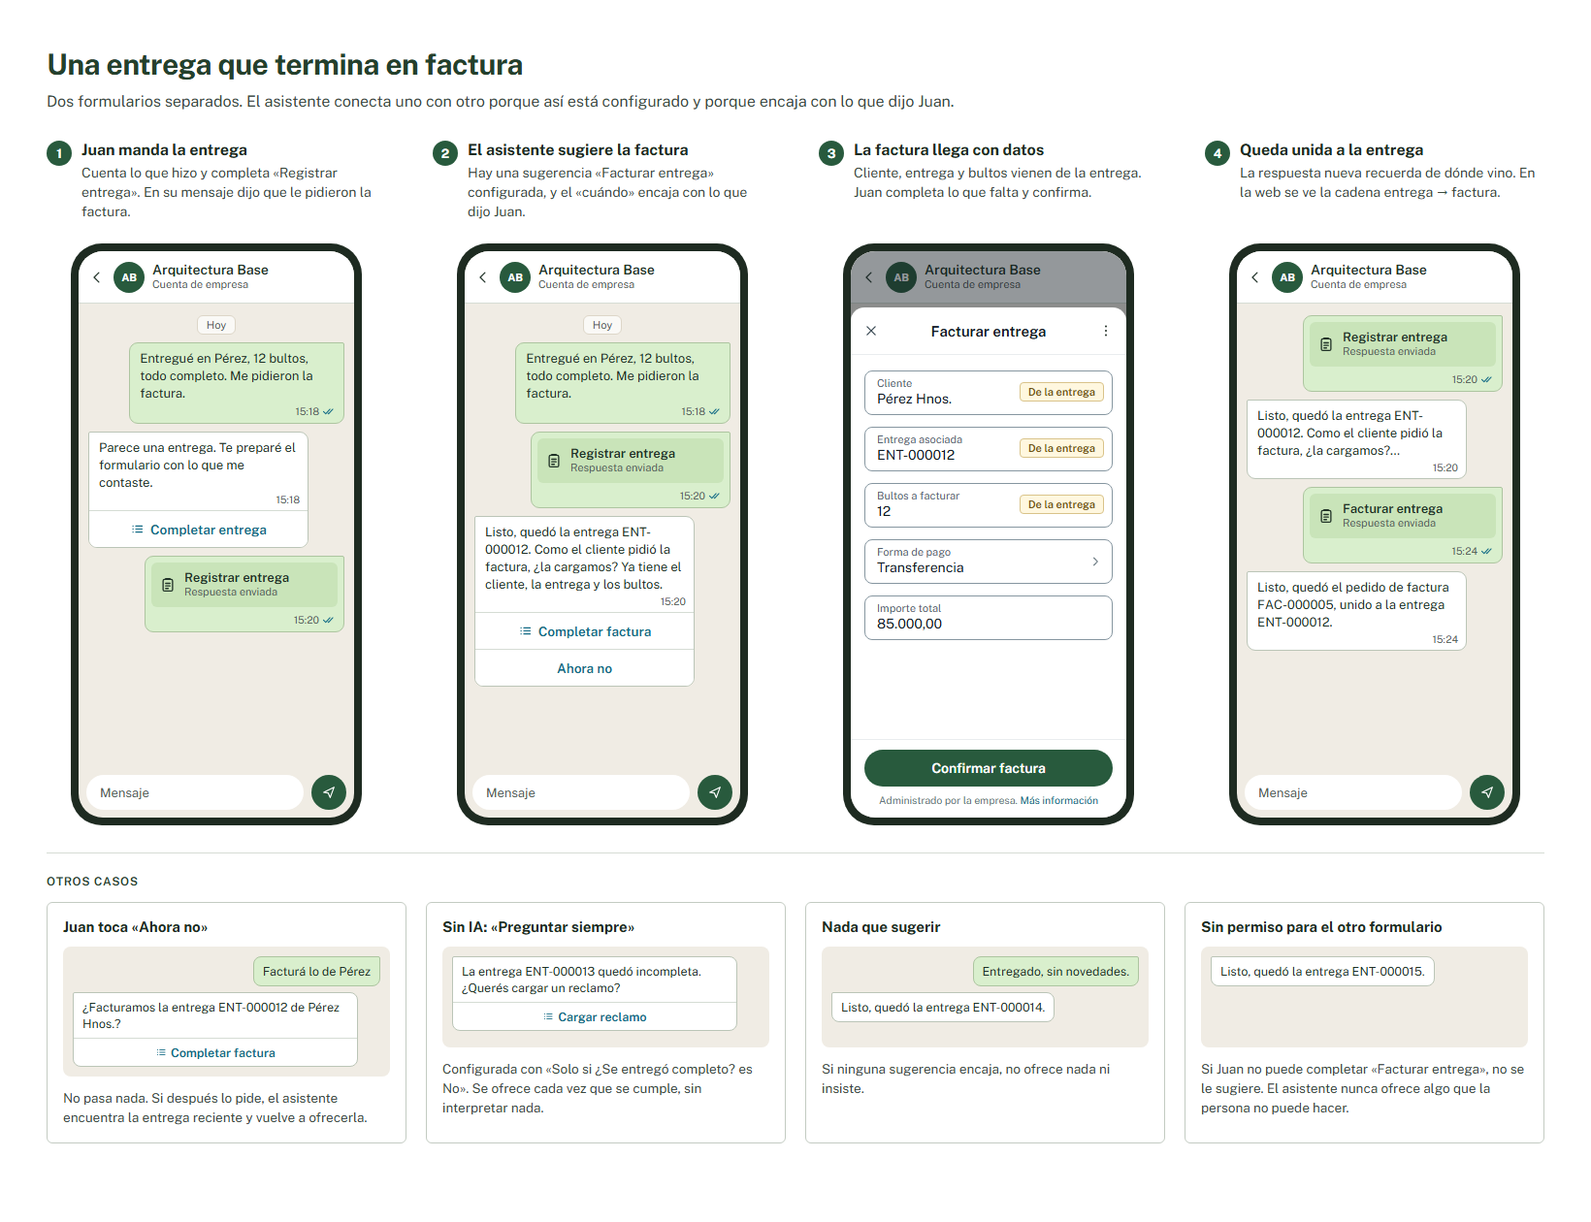
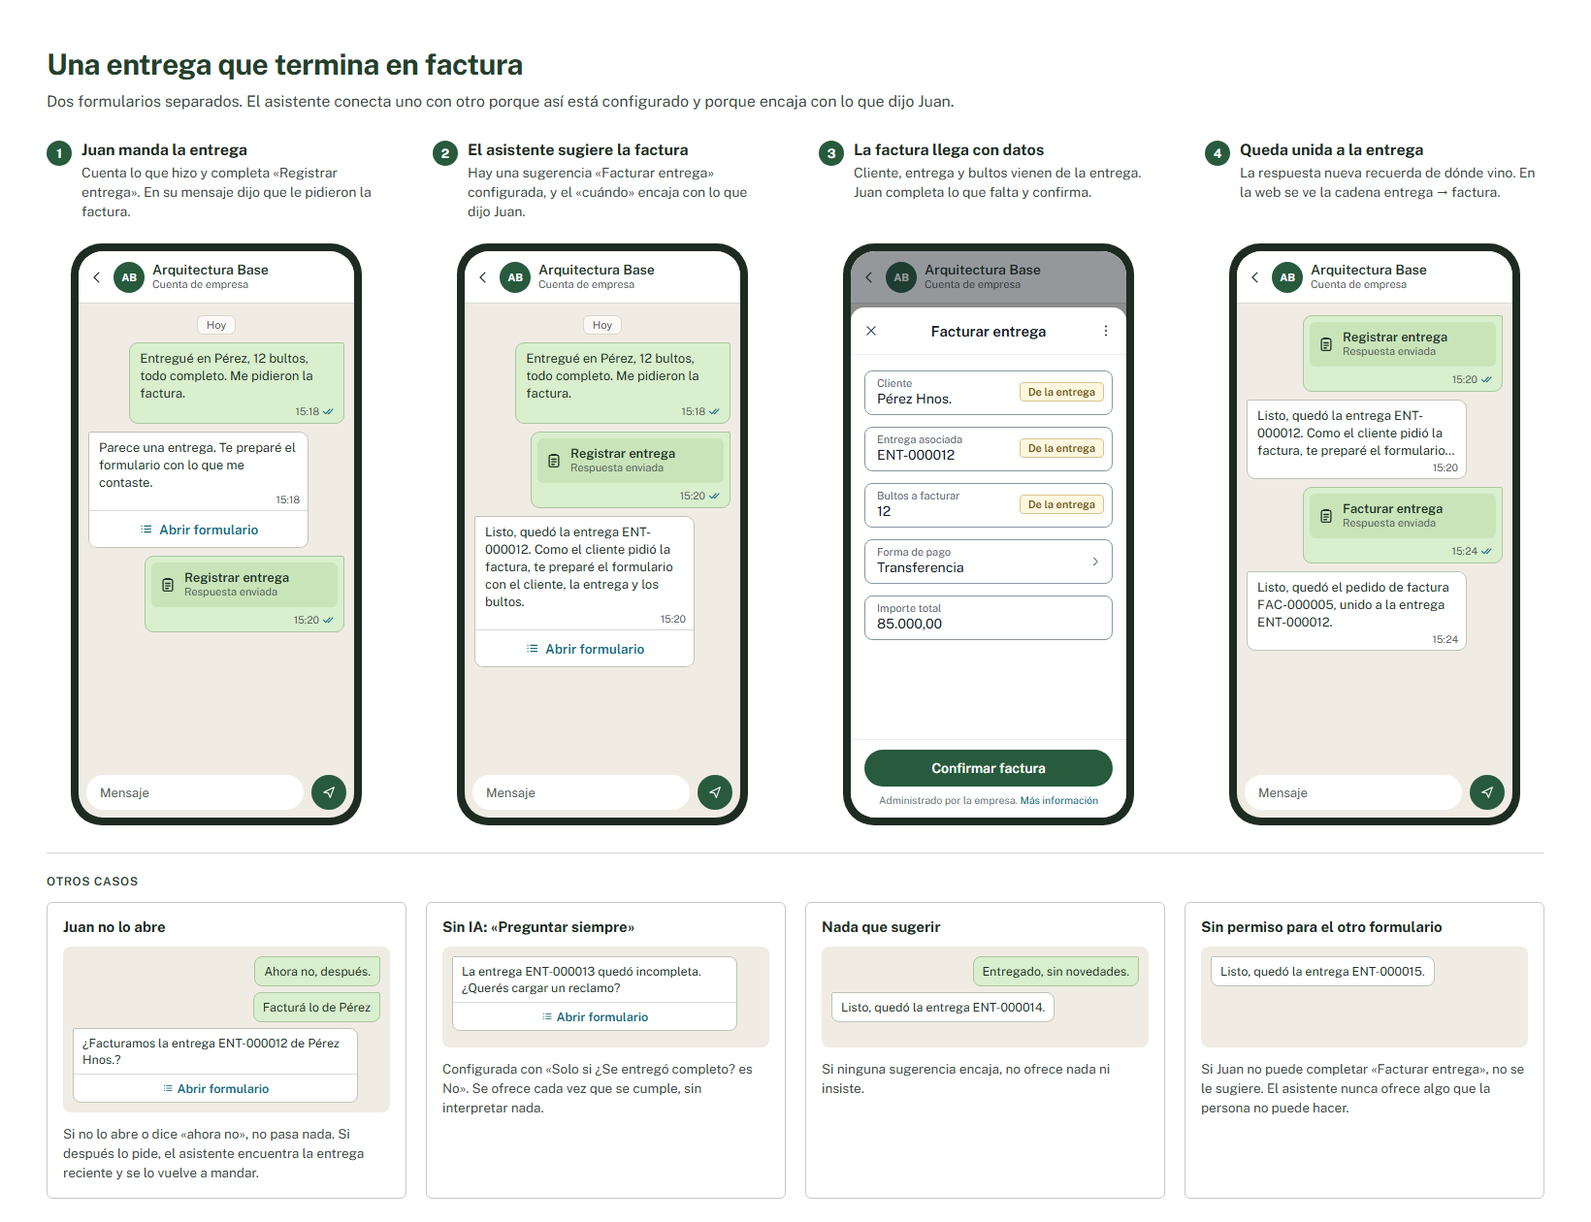
docs: tableros de las cinco etapas de formularios por WhatsApp
Congela en capturas y en formularios-whatsapp.md las variantes de los
cuatro incrementos de la Etapa 1 y los tableros de las etapas 2 a 5
(catálogos, planilla, reglas con aprobación y PDF, y asistente), con
las decisiones del usuario del 2026-10-10. El botón que abre un
formulario en WhatsApp dice siempre «Abrir formulario».

diff --git a/docs/design/formularios-whatsapp.md b/docs/design/formularios-whatsapp.md
@@ -1,6 +1,8 @@
 # Formularios por WhatsApp: tableros elegidos
 
-Fecha: **2026-10-08**. Estado: **diseño elegido por el usuario, sin implementar**.
+Fecha: **2026-10-08**, con las variantes de los cuatro incrementos de la Etapa 1 y el botón «Abrir formulario»
+agregados el **2026-10-10**.
+Estado: **diseño elegido por el usuario, sin implementar**.
 
 Origen: la página «Formularios por WhatsApp» del Artifact
 [Sistema visual — ArquitecturaBase](https://claude.ai/artifact/HPbmDPLnr8JZ9TxevtTqJJ). Como el Artifact es privado
@@ -45,6 +47,101 @@ La Etapa 1:
 | [La respuesta llega al chat](evidence/formularios-whatsapp/e1-3-chat-respuesta.png) | Formulario enviado y respuesta recibida en la línea del tiempo, y vista previa en la lista de chats. |
 | [En el celular de Juan](evidence/formularios-whatsapp/e1-4-celular.png) | Lo que ve el empleado en la Etapa 1, sin asistente. |
 
+Incremento 1 de la Etapa 1, crear y editar (2026-10-10). Son variantes de los tableros elegidos, con los textos de
+[la preparación del front](../plans/formularios-etapa-1-preparacion.md):
+
+| Captura | Qué define |
+| --- | --- |
+| [A · El listado de la Etapa 1](evidence/formularios-whatsapp/e1-a-listado.png) | El 02 recortado: panel con solo «Diseñar formularios», columnas Formulario, Preguntas, En WhatsApp, Último cambio y Acciones (solo Editar), filtros con conteos del servidor y los estados de la lista. |
+| [B · Nuevo formulario](evidence/formularios-whatsapp/e1-b-alta.png) | El editor e1-1 vacío: nada existe hasta «Guardar borrador», prefijo sugerido, pregunta nueva abierta en el lugar, Subir y Bajar, qué pasa al guardar (Guardando…, Guardado, No se guardó, Sin confirmar) y qué pide confirmación. |
+| [C · El prefijo de numeración](evidence/formularios-whatsapp/e1-c-prefijo.png) | Sugerido, editado, ocupado, fijo al publicar, fijo aunque la publicación falló y fijado mientras se editaba. |
+| [D · Otra persona guardó antes](evidence/formularios-whatsapp/e1-d-conflicto.png) | Aviso con «Revisar», comparación «Guardado actualmente» y «Mis cambios» por pregunta y opción, «Usar borrador actual» o «Conservar mis cambios», sin combinar nada solo. |
+| [E · Textos en dos idiomas](evidence/formularios-whatsapp/e1-e-idiomas.png) | Español e inglés en el mismo editor: un idioma a la vez con el original debajo, lo que falta marcado en la fila, el campo y la vista previa. Se guarda incompleto; para publicar hacen falta los dos. |
+
+Incremento 2 de la Etapa 1, publicar en WhatsApp (2026-10-10). Variantes del tablero 04 y del editor e1-1, sobre el
+[contrato propuesto](../../../ArquitecturaBase/docs/plans/formularios-incremento-2-publicacion-contrato.md). Quedan a
+definir las acciones de «Necesita revisión». Decidido el 2026-10-10: se publica solo lo guardado (D4) y en español e
+inglés, con las traducciones cargadas en el editor (D5, variante E).
+
+| Captura | Qué define |
+| --- | --- |
+| [P1 · Publicar la versión 1](evidence/formularios-whatsapp/e2-p1-publicar.png) | Confirmación de la primera publicación: «Qué incluye», «Qué queda fijo» (las preguntas de la versión y el prefijo) y «Qué va a pasar». Aceptar no es publicar. |
+| [P1 · Antes de publicar](evidence/formularios-whatsapp/e2-p1-antes.png) | Variantes del diálogo: comprobando, cambios sin guardar, pregunta que WhatsApp no podría mostrar, versión siguiente con sus diferencias, comprobación vencida, cambios de otra persona, publicación en curso y cuenta de WhatsApp no lista. |
+| [P2 · Publicando](evidence/formularios-whatsapp/e2-p2-publicando.png) | El avance en palabras (Aceptada, Enviada a WhatsApp, WhatsApp la revisa, Lista para mandar), la versión anterior en uso y el borrador editable mientras tanto. |
+| [P2 · Cómo termina](evidence/formularios-whatsapp/e2-p2-resultado.png) | Publicada, rechazada por una pregunta, falla general con «Reintentar», sin confirmar, necesita revisión y cómo se ve en el listado. |
+| [P3 · Vista previa oficial](evidence/formularios-whatsapp/e2-p3-vista.png) | Vista orientativa frente a la oficial de WhatsApp: selector Borrador / Versión N, carga, vencida y no se puede mostrar, con «Abrir vista oficial». |
+
+Incremento 3 de la Etapa 1, mandar un formulario desde el chat (2026-10-10). Variantes de e1-2 y e1-3, con los textos y
+estados que ya usa el chat (`src/locales/*/whatsapp.json`):
+
+| Captura | Qué define |
+| --- | --- |
+| [C1 · ¿Puede recibir un formulario?](evidence/formularios-whatsapp/e3-c1-cuenta.png) | Encabezado y botón según la cuenta vinculada: con correo, sin correo, sin vínculo, inactiva, sin formularios para esa persona y sin permiso de responder. El motivo va debajo del botón deshabilitado. |
+| [C2 · Elegir el formulario](evidence/formularios-whatsapp/e3-c2-elegir.png) | Diálogo con búsqueda y paginado, el idioma en que le llega, el mensaje y los estados de la lista. |
+| [C3 · El mensaje y los dos botones](evidence/formularios-whatsapp/e3-c3-mensaje.png) | Mensaje obligatorio de hasta 1024 caracteres; «Abrir formulario» («Open form» en inglés) y el botón final del formulario. |
+| [C4 · Si algo cambia con el diálogo abierto](evidence/formularios-whatsapp/e3-c4-cambios.png) | Ventana cerrada, permiso revocado, fuera de atención manual, otro envío, vínculo cambiado y formulario no disponible, sin perder lo escrito. |
+| [C5 · Después de enviar](evidence/formularios-whatsapp/e3-c5-estado.png) | Guardando, en cola, leído, no se pudo enviar, envío sin confirmar con «Ya revisé el WhatsApp» y pedido sin confirmar con «Consultar envío». |
+
+Incremento 4 de la Etapa 1, la respuesta llega al chat (2026-10-10). Variantes de e1-3:
+
+| Captura | Qué define |
+| --- | --- |
+| [R1 · La respuesta llega](evidence/formularios-whatsapp/e4-r1-llega.png) | Guardando (sin valores), guardada con su número, no se pudo guardar, no reconocida, llegó dos veces y la vista previa en la lista de chats. |
+| [R2 · Quién ve lo que respondió](evidence/formularios-whatsapp/e4-r2-permisos.png) | Con y sin `formrecords.read`, el permiso revocado con el chat abierto y lo que nunca lleva valores (lista, avisos, nombres accesibles). |
+| [R3 · Cómo se muestran los valores](evidence/formularios-whatsapp/e4-r3-valores.png) | Los seis tipos sin perder nada («No», «0», «Sin respuesta», decimales exactos, fecha sin hora), opciones de su versión, respuesta larga plegada, mensaje de WhatsApp borrado y respuesta en inglés. |
+
+Etapa 2, catálogos (2026-10-10), sobre los
+[acuerdos §5](../../../ArquitecturaBase/docs/plans/formularios-modelo-demo/acuerdos-2026-10-08.md) y el plan §5.2. Decidido el
+mismo día: el inglés de las opciones de un catálogo es opcional (si falta, se usa el español); cambiar el catálogo de una
+pregunta publicada la convierte en pregunta nueva; si la opción elegida se dio de baja antes de responder, no se guarda,
+se avisa al operador y se ofrece mandarlo de nuevo. La consulta avanzada necesita un ADR antes de programarse.
+
+| Captura | Qué define |
+| --- | --- |
+| [K1 · Catálogos](evidence/formularios-whatsapp/cat-k1-listado.png) | Entrada nueva en Formularios; listado con origen, opciones, qué formularios lo usan y estado (activo, no se puede usar con el motivo, dado de baja). |
+| [K2 · Nuevo catálogo](evidence/formularios-whatsapp/cat-k2-nuevo.png) | Elegir de dónde salen las opciones: escritas a mano, de la base con filtros o con una consulta avanzada. El origen no cambia después. |
+| [K3 · Escritas a mano](evidence/formularios-whatsapp/cat-k3-manual.png) | Texto, detalle y código por opción, orden, dar de baja sin borrar, formularios que lo usan y cómo lo ve el empleado. |
+| [K4 · De la base, con filtros](evidence/formularios-whatsapp/cat-k4-filtros.png) | Vista Usuarios, columnas de texto y detalle, condiciones, «sin incluir a quien lo recibe», orden y vista previa como si lo recibiera alguien. |
+| [K5 · Con una consulta](evidence/formularios-whatsapp/cat-k5-consulta.png) | Consulta de lectura sobre vistas de catálogo, prueba con una persona de ejemplo, motivos de rechazo y cómo se arregla un catálogo que dejó de funcionar. |
+| [K6 · Elegir de un catálogo](evidence/formularios-whatsapp/cat-k6-pregunta.png) | El tipo de pregunta nuevo en el editor; catálogos que no se pueden usar, visibles pero no elegibles. |
+| [K7 · Al mandar y al responder](evidence/formularios-whatsapp/cat-k7-envio.png) | Opciones preparadas para cada persona al enviar, catálogo inválido, más de 200 o ninguna opción, lo que ve Juan, la referencia guardada y la opción dada de baja antes de responder. |
+
+Etapa 3, planilla de respuestas (2026-10-10). **Propuesta para revisar**: los tableros 06 y 07 recortados a esta etapa,
+sin aprobación, PDF ni asistente. Cargar desde la web queda para después (decidido el 2026-10-10).
+
+| Captura | Qué define |
+| --- | --- |
+| [T1 · La planilla](evidence/formularios-whatsapp/pla-t1-planilla.png) | «Respuestas» en el panel, columnas fijas (número, recibida, cargó) y una por pregunta de todas las versiones; «—» si no existía y «Sin respuesta» si no se contestó. |
+| [T2 · Más filtros](evidence/formularios-whatsapp/pla-t2-filtros.png) | Un filtro por pregunta según su tipo, con conteos del servidor; versión del formulario; búsqueda privada fuera de la dirección. |
+| [T3 · Una respuesta](evidence/formularios-whatsapp/pla-t3-respuesta.png) | Lo que respondió con las preguntas de su versión, de dónde vino, historial y anterior/siguiente dentro de la planilla. |
+| [T4 · Estados y casos](evidence/formularios-whatsapp/pla-t4-estados.png) | Carga, sin respuestas, sin coincidencias, error, muchos formularios, sin permiso, respuesta que no está y pregunta que cambió de tipo. |
+
+Etapa 4, reglas, aprobación, PDF y avisos (2026-10-10), sobre los acuerdos §3 y el plan. Decidido el mismo día: después
+de «Pedir aprobación» no hay más acciones en la misma regla; una respuesta que espera aprobación sigue con las reglas con
+que llegó; nadie aprueba lo que cargó. Los avisos fuera de las 24 horas necesitan plantillas de Meta.
+
+| Captura | Qué define |
+| --- | --- |
+| [G1 · Cuando llega una respuesta](evidence/formularios-whatsapp/reg-g1-reglas.png) | Reglas en palabras (cuándo, si, hacer en orden), una abierta para editar, Guardar reglas e historial de revisiones. |
+| [G2 · El diseño del PDF](evidence/formularios-whatsapp/reg-g2-pdf.png) | Comprobante simple: nombre en los dos idiomas, qué preguntas incluye, quién aprobó, texto al pie y vista previa. |
+| [G3 · Por aprobar](evidence/formularios-whatsapp/reg-g3-por-aprobar.png) | La bandeja de quien decide, en el panel con su cantidad; ordenada de la más vieja a la más nueva. |
+| [G4 · Aprobar o rechazar](evidence/formularios-whatsapp/reg-g4-decidir.png) | El detalle con la decisión; rechazar pide motivo; otra persona decidió antes; no aprobar lo propio. |
+| [G5 · Qué pasó después](evidence/formularios-whatsapp/reg-g5-historial.png) | Cada acción con su estado (esperando, en curso, hecho, no se pudo, sin confirmar, no aplica) y el PDF como copia fija. |
+| [G6 · Lo que recibe el empleado](evidence/formularios-whatsapp/reg-g6-celular.png) | Confirmación al recibir, aviso con el PDF al aprobar, motivo al rechazar, también en inglés. |
+
+Etapa 5, el asistente (2026-10-10), sobre los acuerdos §4 y §6. También son de esta etapa «Cuándo lo ofrece» (03),
+el recorrido con asistente (05) y las sugerencias entre formularios (s1–s4). Decidido el mismo día: con un mensaje que no
+es un formulario, el asistente no contesta y la conversación queda para un operador; ofrece formularios hasta 2 veces por
+día en cada conversación; cambiar el modo pide el permiso nuevo «Configurar el asistente», que tiene Admin.
+
+| Captura | Qué define |
+| --- | --- |
+| [H1 · El chat en modo Asistente](evidence/formularios-whatsapp/asi-h1-modo-asistente.png) | El asistente manda el formulario prellenado con su nombre como autor, «Por qué lo mandó», mensajes automáticos de reglas y «Tomar atención manual». |
+| [H2 · En Atención manual, sugiere](evidence/formularios-whatsapp/asi-h2-sugerencia.png) | La sugerencia arriba del compositor y el diálogo de envío con los datos prellenados que se pueden destildar. |
+| [H3 · Cambiar de modo](evidence/formularios-whatsapp/asi-h3-modos.png) | Confirmación para pasar a Asistente, tomar la atención a mitad de un envío, IA no disponible, chats existentes, marca en la lista y sin permiso. |
+| [H4 · Un catálogo que propone el asistente](evidence/formularios-whatsapp/asi-h4-catalogo.png) | Pedido por WhatsApp, propuesta para revisar en la web y aprobación por una persona. |
+| [H5 · Los límites del asistente](evidence/formularios-whatsapp/asi-h5-limites.png) | Pregunta si no está seguro, no insiste, respeta permisos y 24 horas, y deja todo registrado en la respuesta. |
+
 Propuesta posterior, en revisión (Etapa del asistente): un formulario puede sugerir otro. No reemplaza a los
 tableros elegidos; el modelo y las reglas están en los
 [acuerdos del 2026-10-08](../../../ArquitecturaBase/docs/plans/formularios-modelo-demo/acuerdos-2026-10-08.md).
@@ -53,7 +150,7 @@ tableros elegidos; el modelo y las reglas están en los
 | --- | --- |
 | [La idea](evidence/formularios-whatsapp/s1-sugerir-idea.png) | Formularios independientes conectados por sugerencias: cuándo, qué datos pasan y cómo se ofrecen. |
 | [Configurar qué sugerir después](evidence/formularios-whatsapp/s2-sugerir-editor.png) | Sección del editor con su propio «Guardar sugerencias», sin republicar. |
-| [En el celular](evidence/formularios-whatsapp/s3-sugerir-celular.png) | Entrega que termina en factura, y los casos «Ahora no», sin IA, nada que sugerir y sin permiso. |
+| [En el celular](evidence/formularios-whatsapp/s3-sugerir-celular.png) | Entrega que termina en factura, y los casos «Juan no lo abre», sin IA, nada que sugerir y sin permiso. |
 | [La cadena en la web](evidence/formularios-whatsapp/s4-sugerir-cadena.png) | La respuesta recuerda de dónde vino, qué sugerencia la ofreció y por qué. |
 
 ## Decisiones de diseño
@@ -66,7 +163,8 @@ tableros elegidos; el modelo y las reglas están en los
    «Cuando llega una respuesta». A la derecha, la vista previa del celular, que refleja el borrador mientras se edita
    y aclara que la vista oficial de WhatsApp aparece al publicar.
 3. **Preguntas.** Una fila por pregunta: arrastre, número, etiqueta, tipo en palabras, Obligatoria u Opcional, Editar
-   y Quitar. Se editan en el lugar, en la fila expandida. Los tipos se nombran en palabras (Texto corto, Texto largo,
+   y Quitar. En la Etapa 1, «Subir» y «Bajar» reemplazan al arrastre (variante B); si el arrastre llega después, es
+   un atajo y nunca la única forma de ordenar. Se editan en el lugar, en la fila expandida. Los tipos se nombran en palabras (Texto corto, Texto largo,
    Número con decimales, Fecha, Sí o no, Elegir de una lista). No se muestran claves internas, IDs, JSON ni la versión
    del esquema.
 4. **Estados en palabras.** Cada formulario muestra una sola etiqueta: Borrador, Publicando…, Publicado · versión N,
@@ -87,6 +185,13 @@ tableros elegidos; el modelo y las reglas están en los
 9. **WhatsApp.** El asistente solo propone y la persona confirma. Si el mensaje es ambiguo pregunta; sin IA se elige
    de una lista; un número sin cuenta vinculada recibe orientación; fuera de 24 horas hace falta una plantilla de
    Meta. Los mensajes al empleado usan voseo y dicen el número de la respuesta.
+10. **Dos botones distintos.** El mensaje que abre un formulario en WhatsApp tiene un solo botón y dice siempre
+    «Abrir formulario». El botón final, adentro del formulario, es el «Texto del botón final» que define cada uno
+    («Enviar», «Confirmar visita»). WhatsApp no admite otro botón en el mismo mensaje: una sugerencia que la persona
+    no quiere simplemente no se abre.
+11. **Dos idiomas (2026-10-10).** Cada texto que ve el empleado (nombre, preguntas, ayudas, opciones y botón final) se
+    escribe en español y en inglés. Se puede guardar con traducciones pendientes; para publicar hacen falta los dos.
+    Cada empleado recibe el formulario, el mensaje y «Abrir formulario» en el idioma de su cuenta.
 
 ## Etapa 1: el formulario y el chat de hoy
 
@@ -95,11 +200,11 @@ Es el primer desarrollo. Las pantallas que no cambian respecto de la historia co
 Entra:
 
 - **Panel Formularios** solo con «Diseñar formularios». La sección «Respuestas» llega con la planilla.
-- **Listado «Diseñar formularios»**, como el tablero 02.
+- **Listado «Diseñar formularios»**, como la variante A: el tablero 02 sin respuestas y con solo Editar.
 - **Editor de la Etapa 1**, como e1-1: «El formulario» con Nombre y Texto del botón final; «Preguntas» con los tipos
   Texto corto, Texto largo, Número con decimales, Fecha, Sí o no y Elegir de una lista; las opciones de una lista se
   escriben a mano en el editor; vista previa del celular. No aparecen «Cuándo lo ofrece el asistente» ni «Cuando
-  llega una respuesta».
+  llega una respuesta». El alta es la variante B, el prefijo la C y el conflicto al guardar la D.
 - **Publicar**, como el tablero 04. El primer publicado es la versión 1.
 - **Chat de WhatsApp**, como e1-2 y e1-3:
   - El encabezado de la conversación agrega «Cuenta vinculada: correo» cuando el contacto está vinculado a una cuenta.
@@ -117,8 +222,8 @@ Entra:
     «Guardada como número».
   - La lista de chats muestra «Respondió nombre del formulario».
   - No hay respuestas automáticas: el operador contesta a mano.
-- **Celular**, como e1-4: el empleado recibe el pedido, completa el formulario de WhatsApp y lo envía. Si lo cierra sin
-  enviar, no se guarda nada.
+- **Celular**, como e1-4: el empleado recibe el pedido con el botón «Abrir formulario», completa el formulario de
+  WhatsApp y lo envía con el botón final. Si lo cierra sin enviar, no se guarda nada.
 
 Queda para etapas siguientes: la planilla de respuestas y su sección en el panel, Una respuesta, aprobación y PDF,
 el asistente con IA, los catálogos y referencias (clientes), cargar desde la web, correcciones, mandar fuera de las
@@ -128,14 +233,14 @@ Las respuestas de la Etapa 1 ya se guardan con su versión y su número: cuando 
 
 ## Pendientes antes de programar cada pantalla
 
-- **Numeración (decidida el 2026-10-08).** Prefijo del formulario, como en los tableros (VIS-000001): se propone a
-  partir del nombre, el administrador puede cambiarlo hasta la primera publicación, es único y no se recicla. Suma el
-  campo «Prefijo de numeración» en «El formulario»: se dibuja en el lienzo antes de programarlo.
-- **Estados no dibujados.** Carga, vacío, sin coincidencias, error con reintento, sin permiso, 320/390 px e inglés del
-  listado, el editor y el diálogo de envío. Se dibujan en el mismo lienzo cuando la etapa llegue a esa pantalla;
+- **Numeración (decidida el 2026-10-08, dibujada el 2026-10-10).** Prefijo del formulario, como en los tableros
+  (VIS-000001): se propone a partir del nombre, el administrador puede cambiarlo hasta que se acepta la primera
+  publicación (aunque después falle), es único y no se recicla. Sus estados están en la variante C.
+- **Estados no dibujados.** Los de la lista están en la variante A y los de guardar en B y D. Faltan 320/390 px e
+  inglés del listado y el editor, y los estados del diálogo de envío. Se dibujan en el mismo lienzo cuando la etapa llegue a esa pantalla;
   mientras tanto valen los patrones de la plantilla de listados y el [contrato de mensajes](../guides/mensajes-y-estados.md).
-- **Vista oficial de Meta.** El tablero 03 dibuja una vista previa propia; la oficial (iframe de Meta) y su CSP siguen
-  pendientes como dice el plan.
+- **Vista oficial de Meta.** Sus estados están en P3; la CSP del iframe y el comportamiento real en el navegador se
+  prueban en el piloto, como dice el plan.
 
 ## Correspondencia con `shared/ui`
 

diff --git a/docs/design/visual-baseline.md b/docs/design/visual-baseline.md
@@ -8,7 +8,11 @@ historia completa (diseñar, publicar, completar por WhatsApp, respuestas, aprob
 como referencia de pantallas, la maqueta aislada del plan de formularios del 2026-10-07/08, que queda como procedencia.
 Están dibujados a mano con Campo y Public Sans porque la biblioteca del lienzo sigue sin sincronizar. Capturas,
 decisiones, alcance de la Etapa 1, correspondencia con `shared/ui` y pendientes: [formularios-whatsapp.md](formularios-whatsapp.md).
-Sin implementación todavía.
+Sin implementación todavía. El 2026-10-10 se sumaron las variantes A–E del incremento 1 (listado, alta, prefijo,
+conflicto al guardar y textos en dos idiomas), las del incremento 2 (P1–P3, publicar), las del incremento 3 (C1–C5,
+mandar desde el chat) y las del incremento 4 (R1–R3, la respuesta en el chat), y el botón que abre un formulario en
+WhatsApp pasó a decir siempre «Abrir formulario». Ese día el lienzo se ordenó en una página por módulo, cada una con un
+índice navegable arriba (Play en el índice lleva a cada pantalla).
 
 ## Inicio: panel interno de conversaciones elegido — 2026-10-05
 
